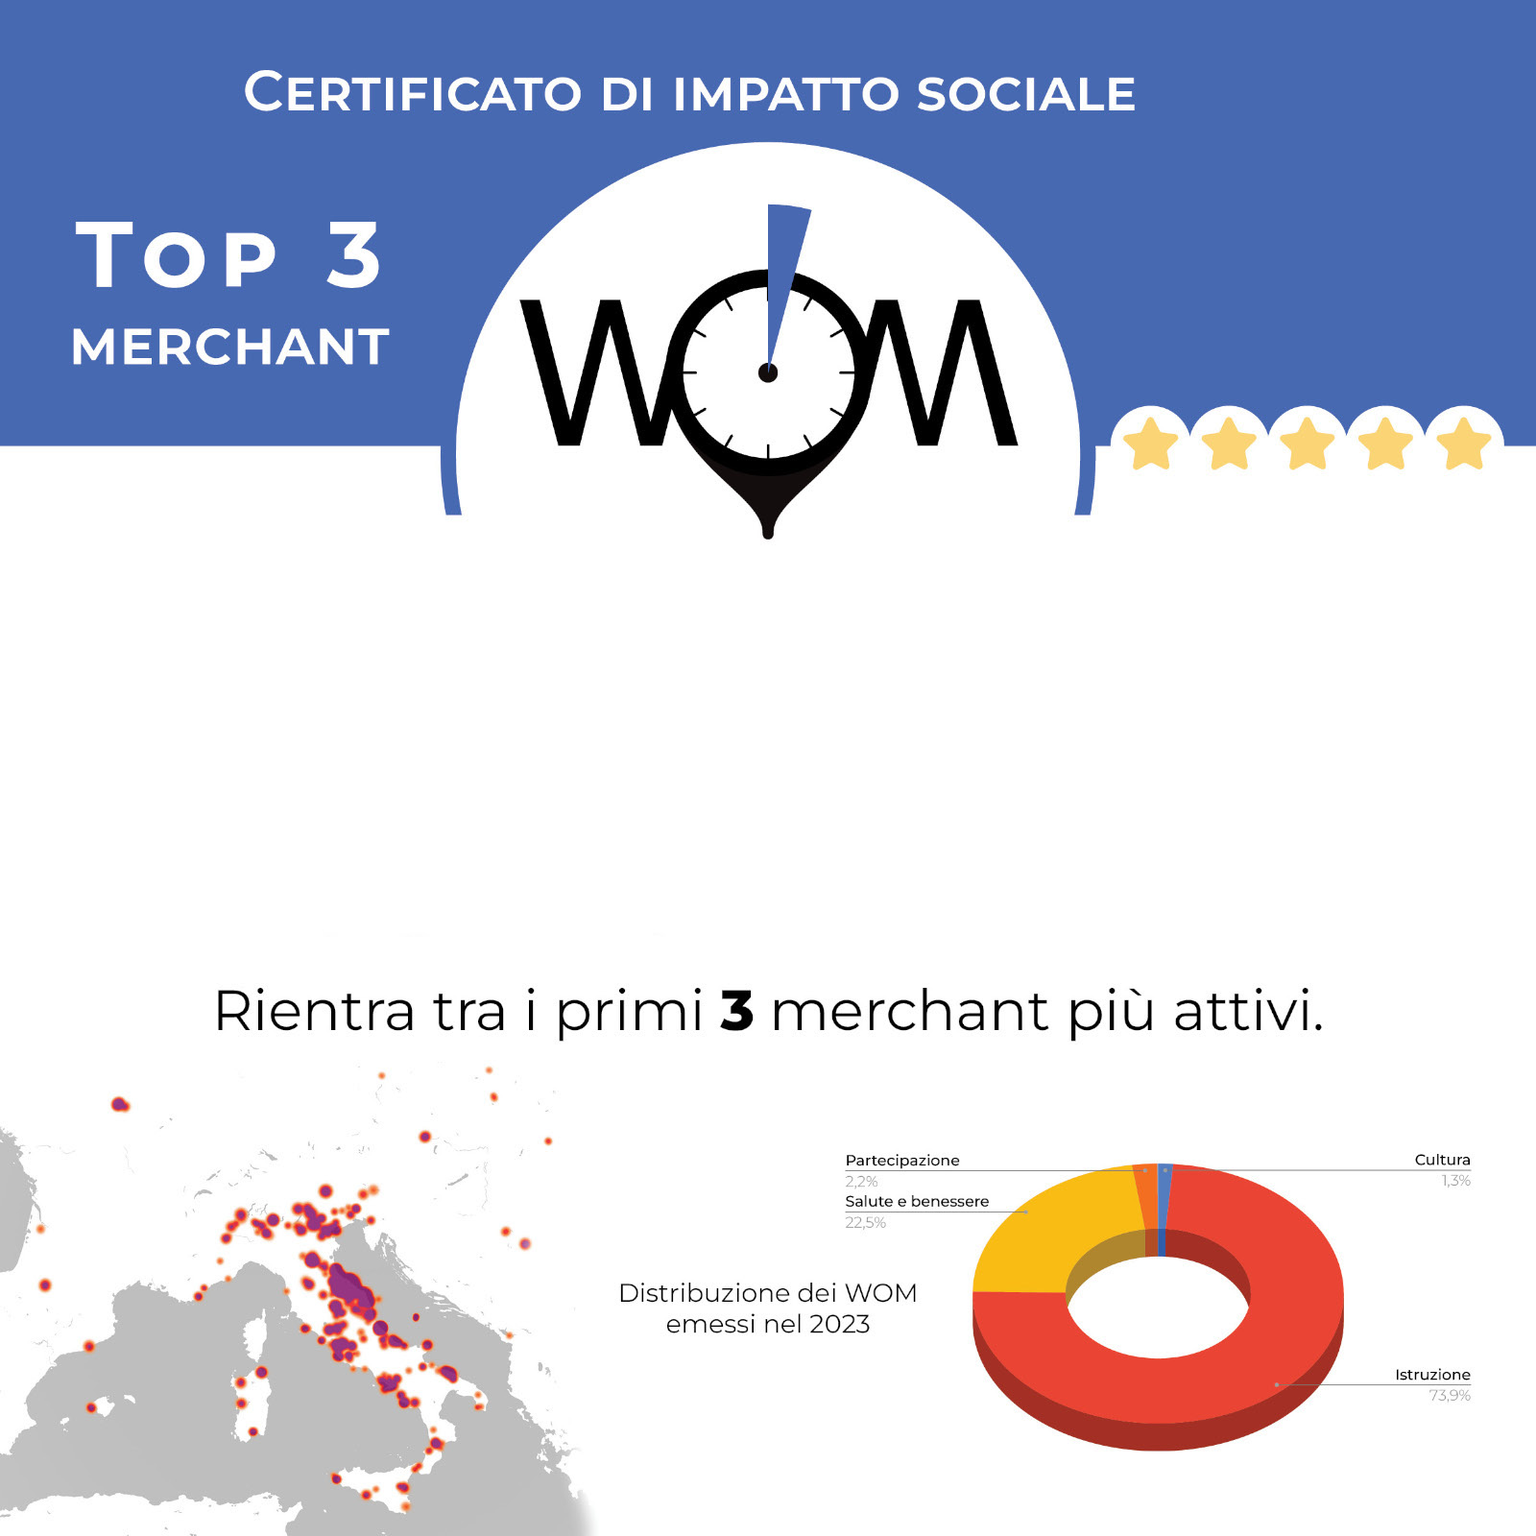
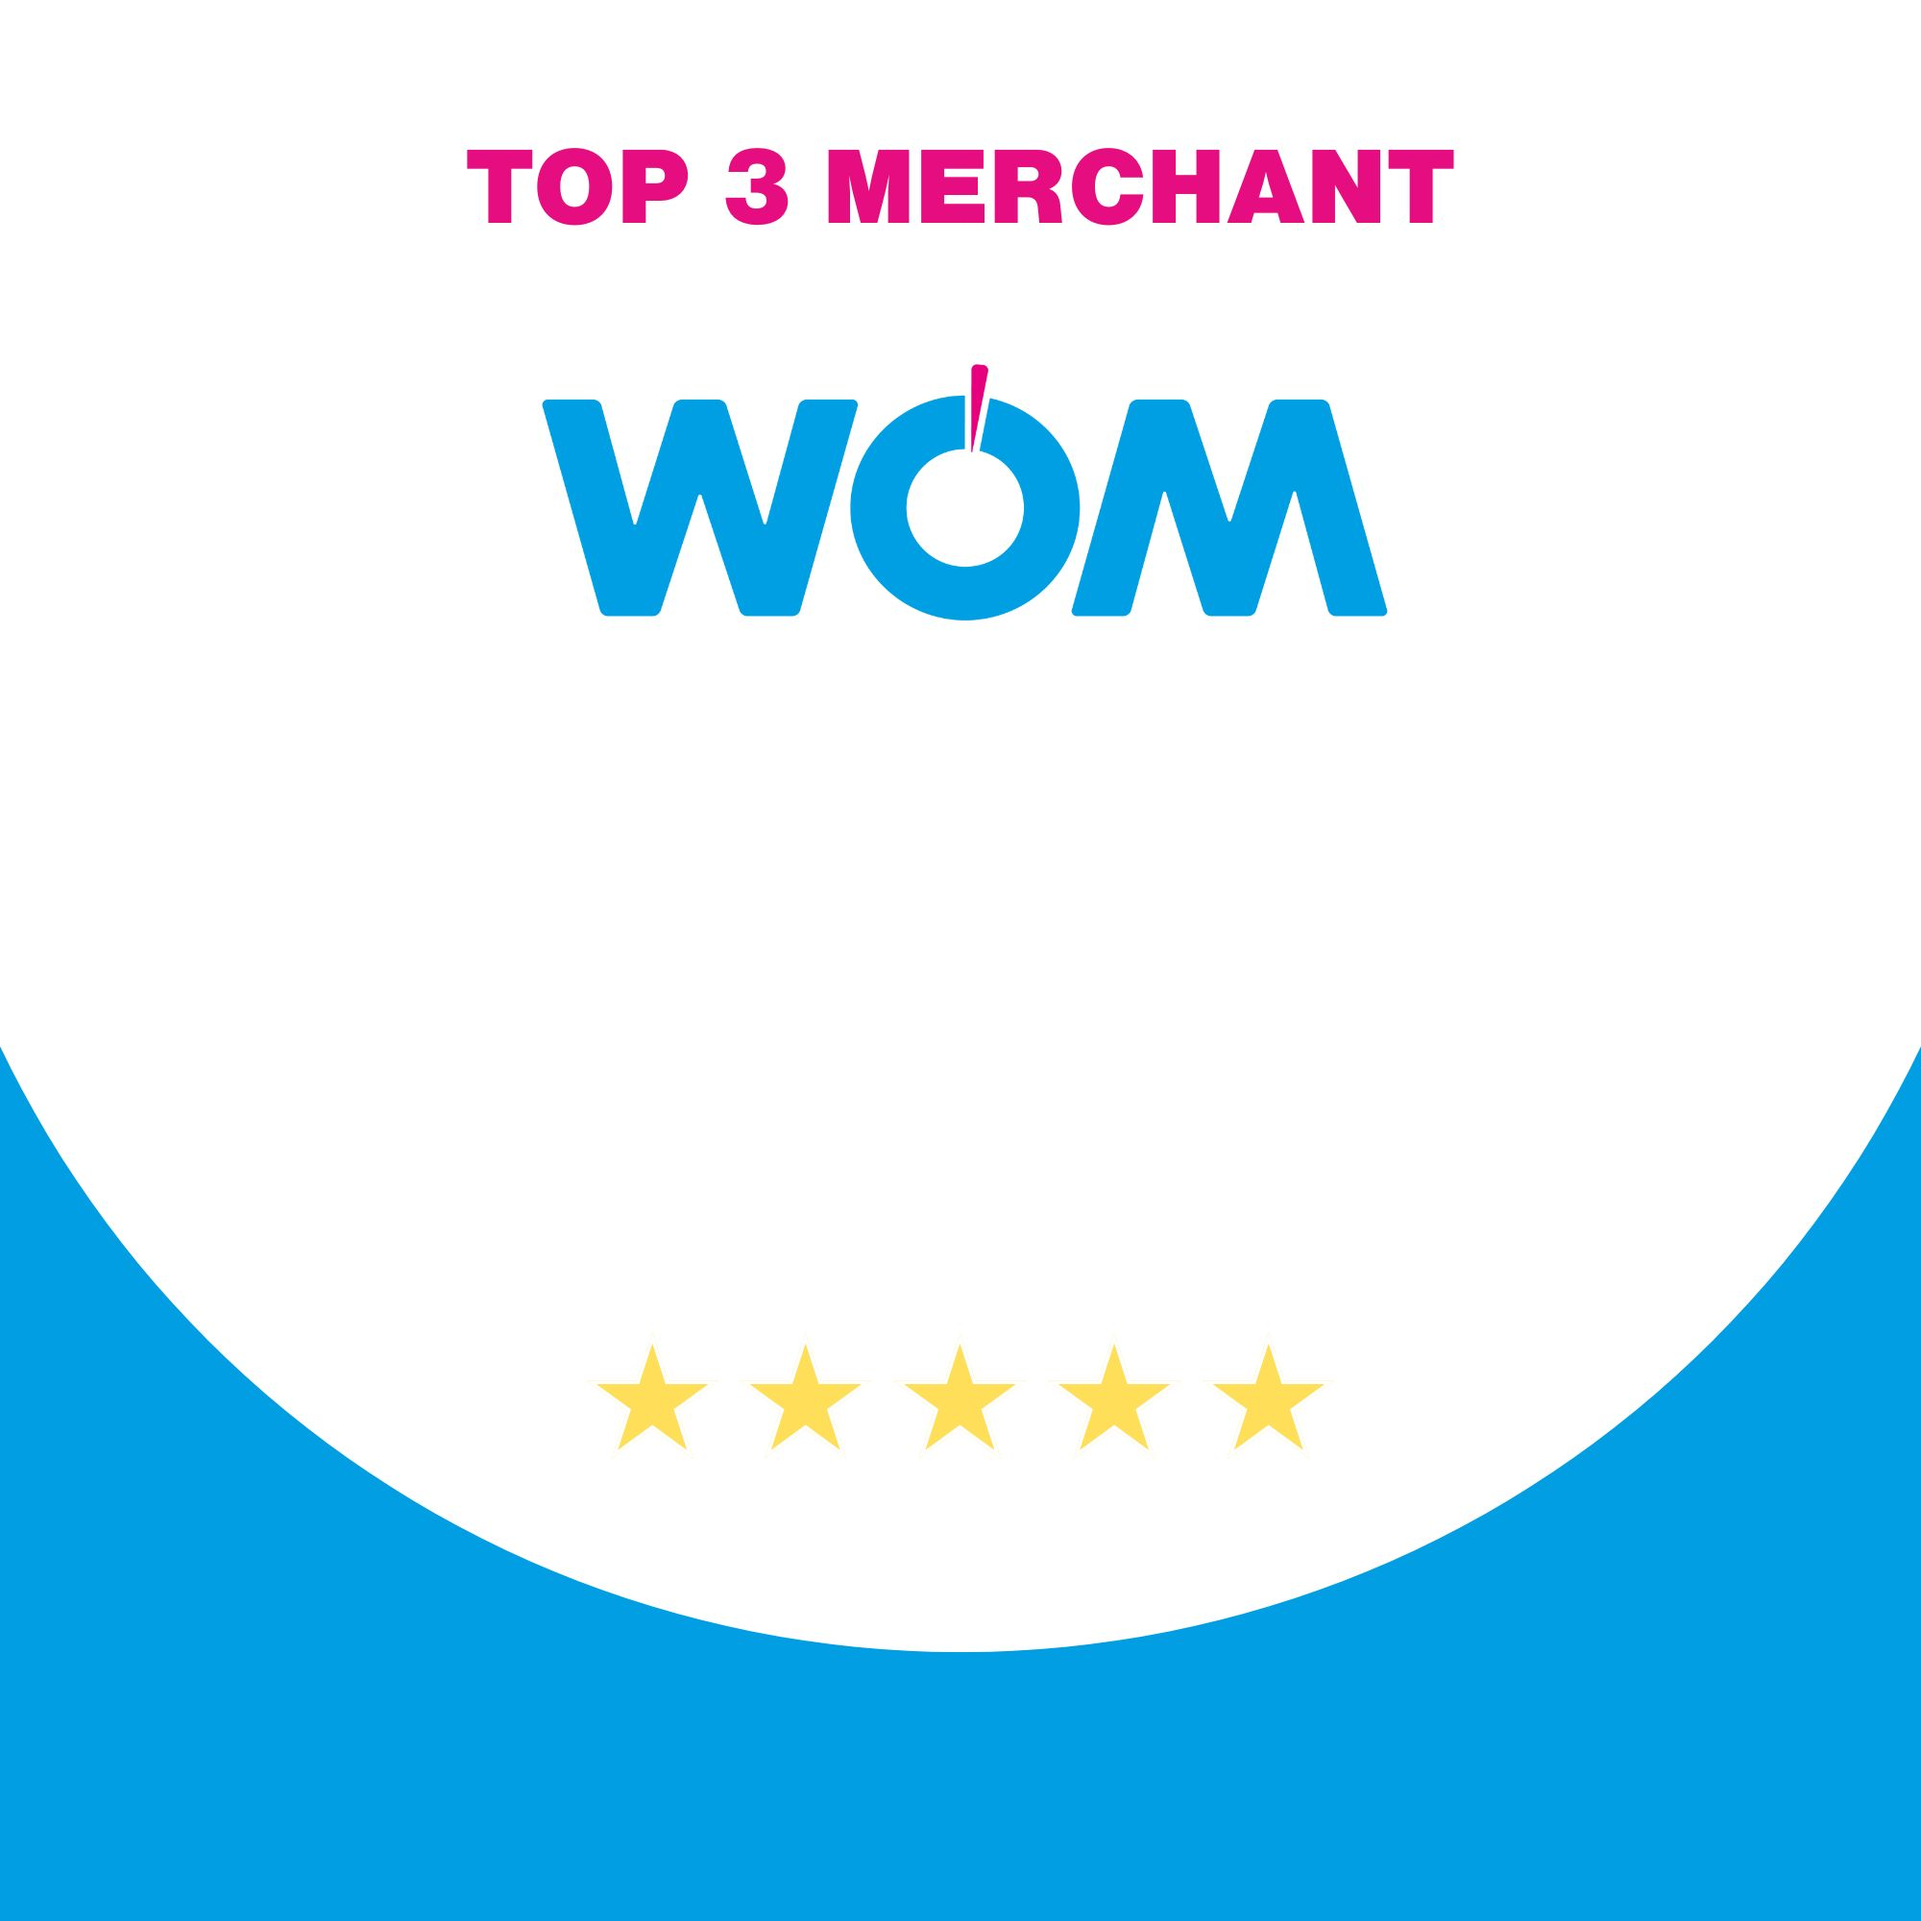
New annual report graphic

diff --git a/src/Website/src/app/user/statistics/components/dialog-annual-report-merchants/dialog-annual-report-merchants.component.ts b/src/Website/src/app/user/statistics/components/dialog-annual-report-merchants/dialog-annual-report-merchants.component.ts
@@ -179,16 +179,22 @@ export class DialogAnnualReportMerchantsComponent implements OnInit {
 
     // Handle background image based on the index el
     let bgImage = null;
+    let merchantPositionString = null;
     if (index === 0) {
       bgImage = "assets/images/statistics/annual-report/bestMerchant.jpg";
+      merchantPositionString = "";
     } else if (index === 1 || index === 2) {
       bgImage = "assets/images/statistics/annual-report/top3.jpg";
+      merchantPositionString = "Rientra tra i primi 3 merchant più attivi.";
     } else if (index >= 3 && index <= 9) {
       bgImage = "assets/images/statistics/annual-report/top10.jpg";
+      merchantPositionString = "Rientra tra i primi 10 merchant più attivi.";
     } else if (index >= 10 && index <= 19) {
       bgImage = "assets/images/statistics/annual-report/top20.jpg";
+      merchantPositionString = "Rientra tra i primi 20 merchant più attivi.";
     } else {
       bgImage = "assets/images/statistics/annual-report/top30.jpg";
+      merchantPositionString = "Rientra tra i primi 30 merchant più attivi.";
     }
 
     const bgImg = await fabric.FabricImage.fromURL(bgImage);
@@ -198,17 +204,20 @@ export class DialogAnnualReportMerchantsComponent implements OnInit {
     bgImg.selectable = false;
     bgImg.evented = false;
 
+    const yearCertificate = `CERTIFICATO DI IMPATTO SOCIALE ${this.selectedYear}`;
     // Add year
-    const yearToAdd = new fabric.FabricText(`${String(this.selectedYear)}`, {
-      left: 1200,
-      top: 60,
-      fontSize: 60,
+    const yearToAdd = new fabric.FabricText(yearCertificate, {
+      top: 1455,
+      textAlign: "center",
+      fontSize: 36,
       fill: "white",
       fontWeight: "600",
       fontStyle: "normal",
-      fontFamily: "Montserrat",
+      fontFamily: "HelveticaNeueBold",
       width: 1600,
+      originX: "center",
     });
+    yearToAdd.left = canvas.getWidth() / 2;
 
     // Add merchant name
     const nameMerchant = new fabric.FabricText(
@@ -220,7 +229,7 @@ export class DialogAnnualReportMerchantsComponent implements OnInit {
         fill: "black",
         fontWeight: "600",
         fontStyle: "normal",
-        fontFamily: "Montserrat",
+        fontFamily: "HelveticaNeue",
         width: 1600,
         originX: "center",
       }
@@ -230,7 +239,7 @@ export class DialogAnnualReportMerchantsComponent implements OnInit {
     // Add first line
     const firstLine = `Ha effettuato ${String(
       this.activeMerchants[index].numberTransactions
-    )}, transazioni, riconoscendo il`;
+    )}, transazioni, riconoscendo il valore sociale generato`;
     // Determine the start and end index of the dynamic number
     const numberTransactionsStr = String(
       this.activeMerchants[index].numberTransactions
@@ -242,9 +251,9 @@ export class DialogAnnualReportMerchantsComponent implements OnInit {
     const firstLineText = new fabric.Textbox(firstLine, {
       top: 766,
       width: 1600,
-      fontSize: 58,
+      fontSize: 42,
       fill: "black",
-      fontFamily: "Montserrat",
+      fontFamily: "HelveticaNeue",
       fontWeight: "300",
       textAlign: "center",
       originX: "center",
@@ -266,56 +275,45 @@ export class DialogAnnualReportMerchantsComponent implements OnInit {
 
     firstLineText.left = canvas.getWidth() / 2;
 
-    const secondLineText = new fabric.Textbox(
-      `valore sociale generato dai propri utenti con`,
-      {
-        top: 834,
-        width: 1600,
-        fontSize: 58,
-        fill: "black",
-        fontFamily: "Montserrat",
-        fontStyle: "normal",
-        fontWeight: "300",
-        textAlign: "center",
-        originX: "center",
-        styles: {
-          0: {},
-        },
-      }
-    );
-
-    secondLineText.left = canvas.getWidth() / 2;
-
-    const thirdLine = `un impegno complessivo di ${String(
+    const secondLine = `dai propri utenti con un impegno complessivo di ${String(
       this.activeMerchants[index].amount
     )} minuti.`;
 
     const amountStr = String(this.activeMerchants[index].amount);
-    const amountStart = thirdLine.indexOf(amountStr);
+    const amountStart = secondLine.indexOf(amountStr);
     const amountEnd = amountStart + amountStr.length;
 
-    // Add minutes
-    const thirdLineText = new fabric.FabricText(thirdLine, {
-      top: 902,
-      fontSize: 60,
+    const secondLineText = new fabric.FabricText(secondLine, {
+      top: 834,
+      width: 1600,
+      fontSize: 42,
+      fill: "black",
+      fontFamily: "HelveticaNeue",
+      fontStyle: "normal",
+      fontWeight: "300",
       textAlign: "center",
       originX: "center",
-      fill: "black",
-      fontWeight: "300",
-      fontFamily: "Montserrat",
-      width: 1600,
+      styles: {
+        0: {},
+      },
     });
 
-    // Apply bold font size
-    for (let i = amountStart; i < amountEnd; i++) {
-      thirdLineText.setSelectionStyles(
-        {
-          fontWeight: "bold",
-        },
-        i,
-        i + 1
-      );
-    }
+    secondLineText.left = canvas.getWidth() / 2;
+
+    const thirdLineText = new fabric.FabricText(merchantPositionString, {
+      top: 950,
+      width: 1600,
+      fontSize: 42,
+      fill: "black",
+      fontFamily: "HelveticaNeue",
+      fontStyle: "normal",
+      fontWeight: "300",
+      textAlign: "center",
+      originX: "center",
+      styles: {
+        0: {},
+      },
+    });
 
     thirdLineText.left = canvas.getWidth() / 2;
 
